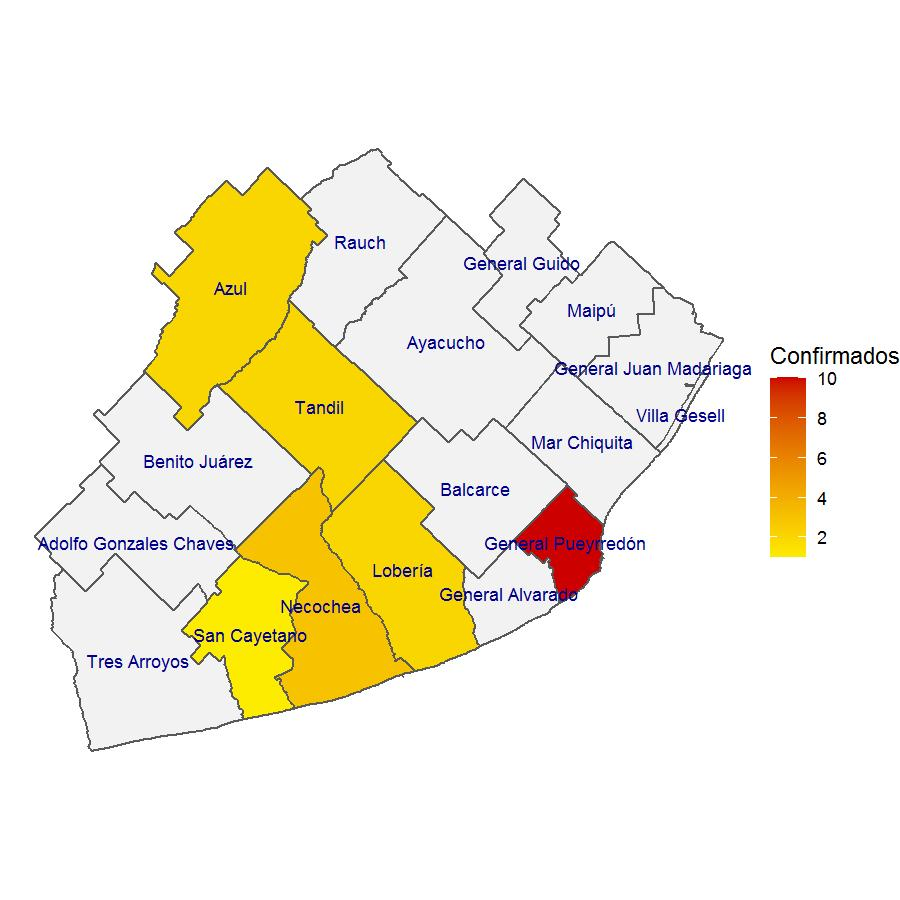
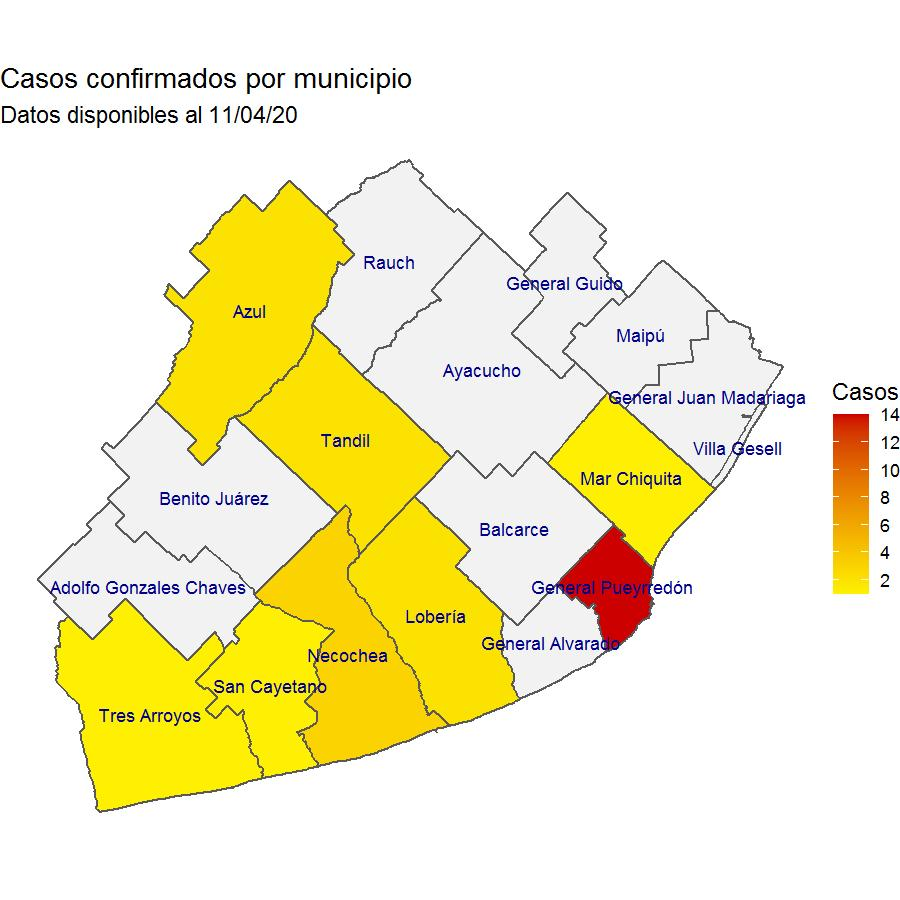
actualización gráficos
- actualicé la fuente de datos de municipios (cambió el archivo en el repositorio de sistemas mapache)
- agregué la fecha en que se actualizaron los datos en el título de los gráficos

diff --git a/estadisticas.html b/estadisticas.html
@@ -303,7 +303,7 @@ $(document).ready(function () {
 <div id="status-covid19-global" class="section level1">
 <h1>Status COVID19 global</h1>
 <hr />
-<p>09 abr 2020</p>
+<p>11 abr 2020</p>
 <p><br> <img src="plots/global_log.jpg" width="600px" /> <br> <br> <br> <img src="plots/global_GF.jpg" width="600px" /> <br> <br> <br></p>
 </div>
 <div id="status-covid19-mercosur" class="section level1">
@@ -311,7 +311,7 @@ $(document).ready(function () {
 <hr />
 <ul>
 <li>Inicio de epidemia: 2020-03-02</li>
-<li>Duración de epidemia al 09 abr 2020: <em>37 días</em></li>
+<li>Duración de epidemia al 11 abr 2020: <em>39 días</em></li>
 </ul>
 <p><br> <img src="plots/p_latam.jpg" width="600px" /> <br></p>
 <p><img src="plots/latam_GF.jpg" width="600px" /> <br> <br> <br></p>
@@ -319,7 +319,7 @@ $(document).ready(function () {
 <div id="status-covid19-argentina" class="section level1">
 <h1>Status COVID19 Argentina</h1>
 <hr />
-<p>09 abr 2020</p>
+<p>11 abr 2020</p>
 <p><br> <img src="plots/ARG_bars.jpg" width="600px" /> <br> <br> <br></p>
 <div id="qué-modelo-ajusta-mejor-al-progreso-de-infectados-en-argentina" class="section level2">
 <h2>Qué modelo ajusta mejor al progreso de infectados en Argentina?</h2>
